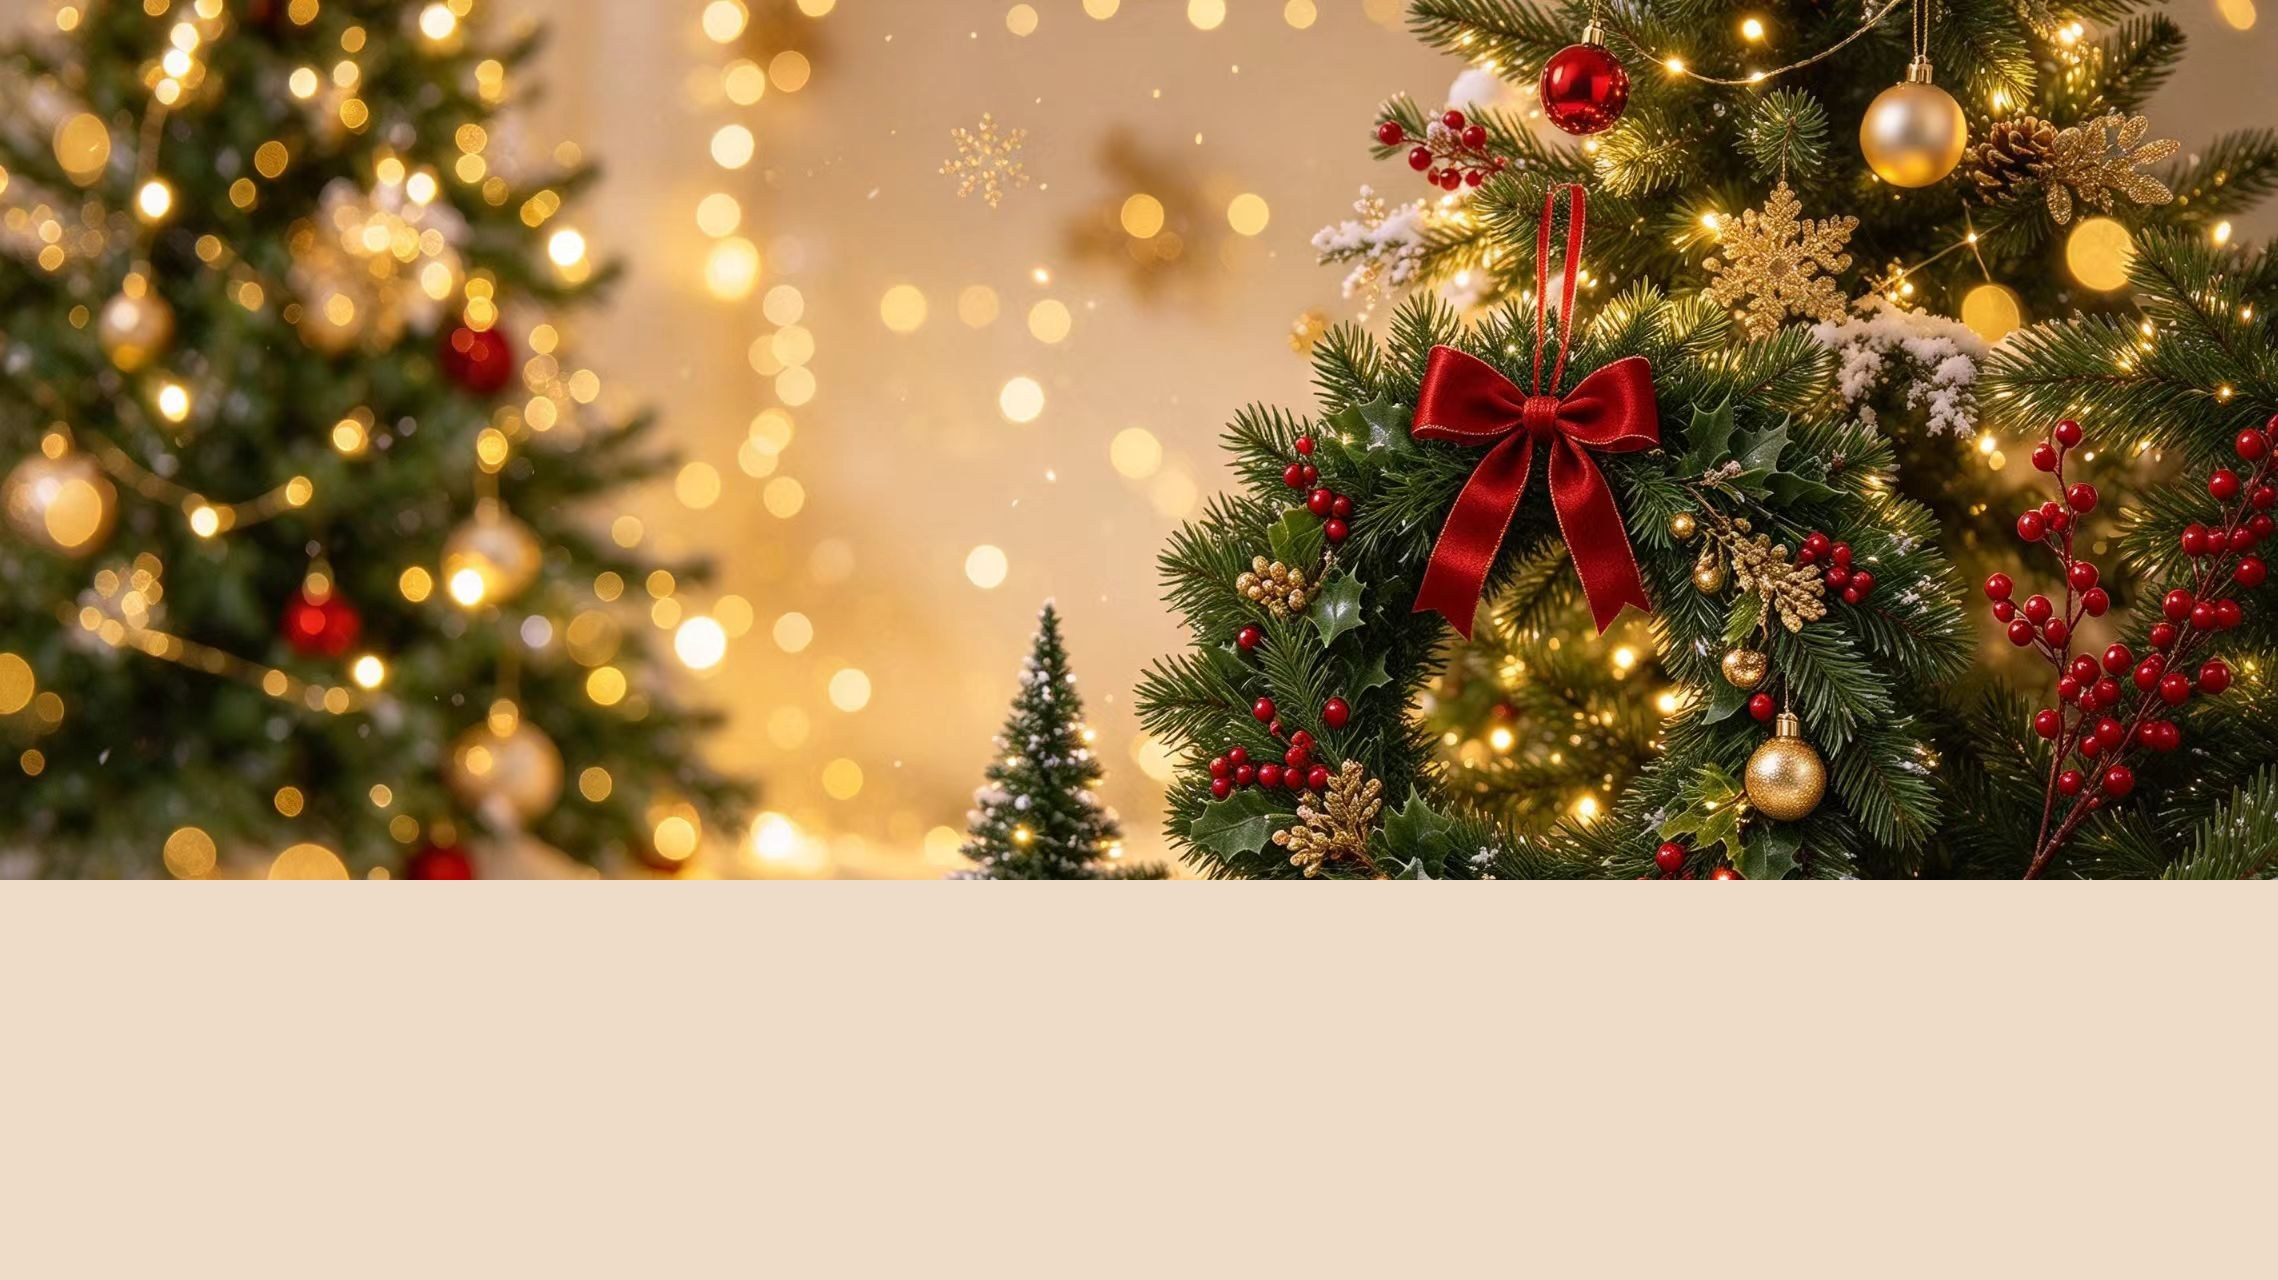
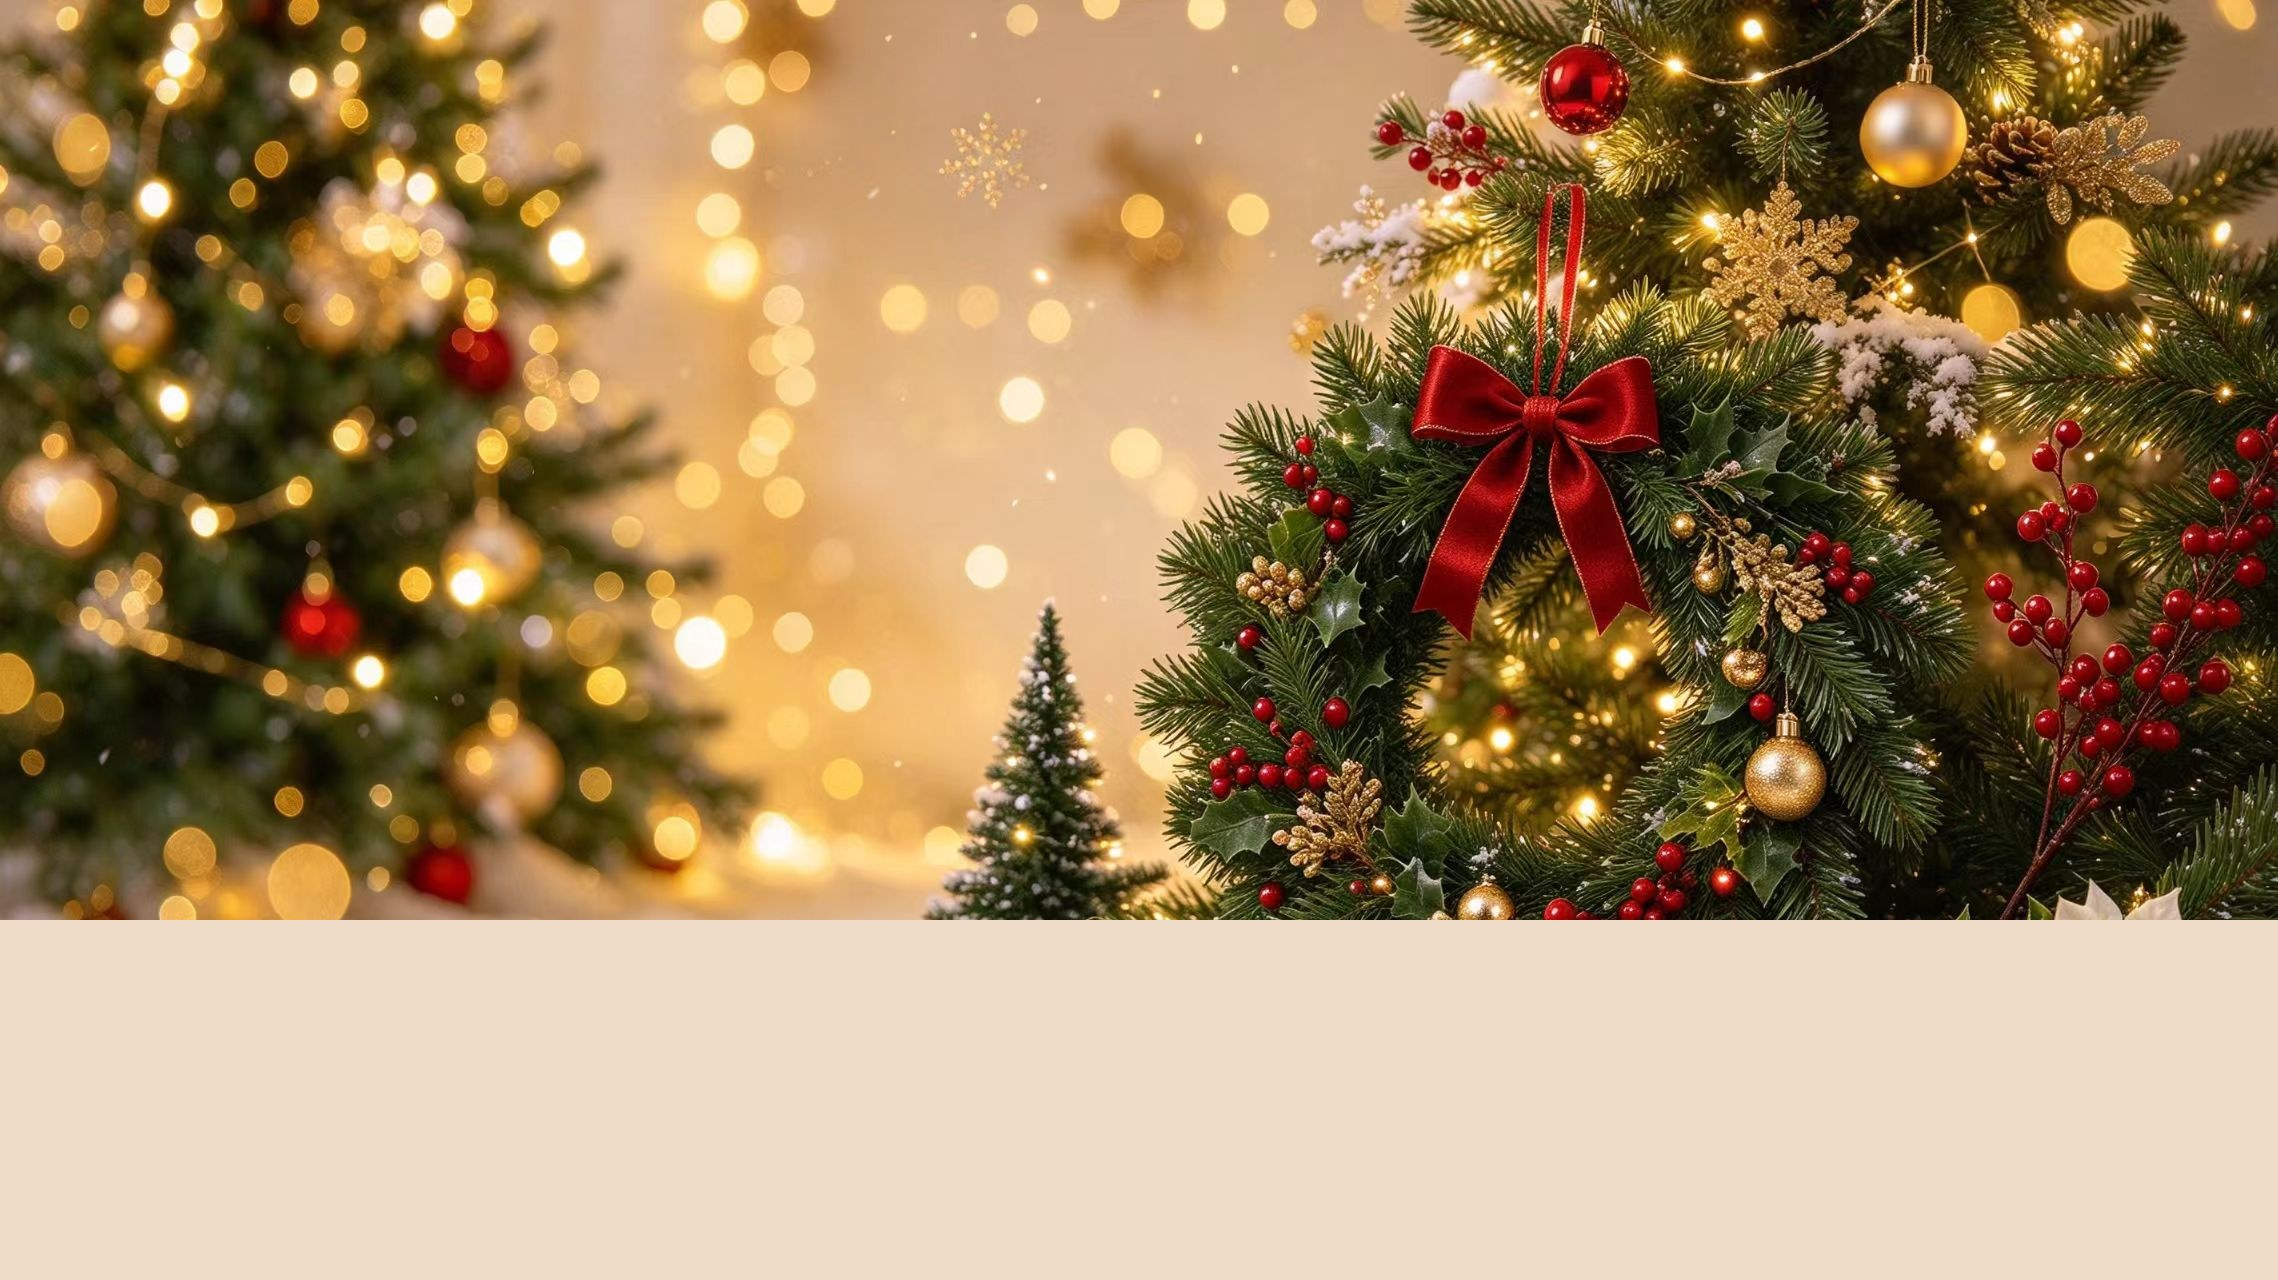
fix: 修复照片延伸渐变不可见 — 保留完整照片并缩短占位区
- 清洁背景图只填文字带区域，照片完整保留
- 占位区缩短（万圣节 2278:350 / 圣诞 2278:560），
  照片下半部分延伸进文字区顶部，经透明渐变自然隐入纯色

Changed region(s): [[0.0, 0.6875, 1.0, 0.7188]]

diff --git a/products/halloween.html b/products/halloween.html
@@ -173,7 +173,7 @@
         /* ===== FEST HERO（按设计图 Halloween.jpg 1:1 复刻） ===== */
         .fest-hero__photo {
             width: 100%;
-            aspect-ratio: 2278 / 560;
+            aspect-ratio: 2278 / 350;
         }
         .fest-hero__band { background: linear-gradient(180deg, rgba(0,0,0,0) 0%, rgba(0,0,0,0) 40px, #0e0d13 220px); color: #fff; text-align: center; padding: 64px 0 72px; }
         .fest-hero__badge {
@@ -199,7 +199,7 @@
             text-align: left;
         }
         @media (max-width: 768px) {
-            .fest-hero__photo { aspect-ratio: 2278 / 560; }
+            .fest-hero__photo { aspect-ratio: 2278 / 350; }
             .fest-hero__band { padding: 44px 0 52px; }
             .fest-hero__title { letter-spacing: 4px; }
         }

diff --git a/products/christmas.html b/products/christmas.html
@@ -172,7 +172,7 @@
         /* ===== FESTIVAL HERO (design split & rebuilt) ===== */
         .fest-hero__photo {
             width: 100%;
-            aspect-ratio: 2278 / 920;
+            aspect-ratio: 2278 / 560;
         }
         .fest-hero__band { background: linear-gradient(180deg, rgba(0,0,0,0) 0%, rgba(0,0,0,0) 40px, #EFDCC8 220px); color: #1F2D10; text-align: center; padding: 64px 0 72px; }
         .fest-hero__badge {
@@ -197,7 +197,7 @@
             text-align: left;
         }
         @media (max-width: 768px) {
-            .fest-hero__photo { aspect-ratio: 2278 / 920; }
+            .fest-hero__photo { aspect-ratio: 2278 / 560; }
             .fest-hero__band { padding: 44px 0 52px; }
             .fest-hero__title { letter-spacing: 4px; }
         }
